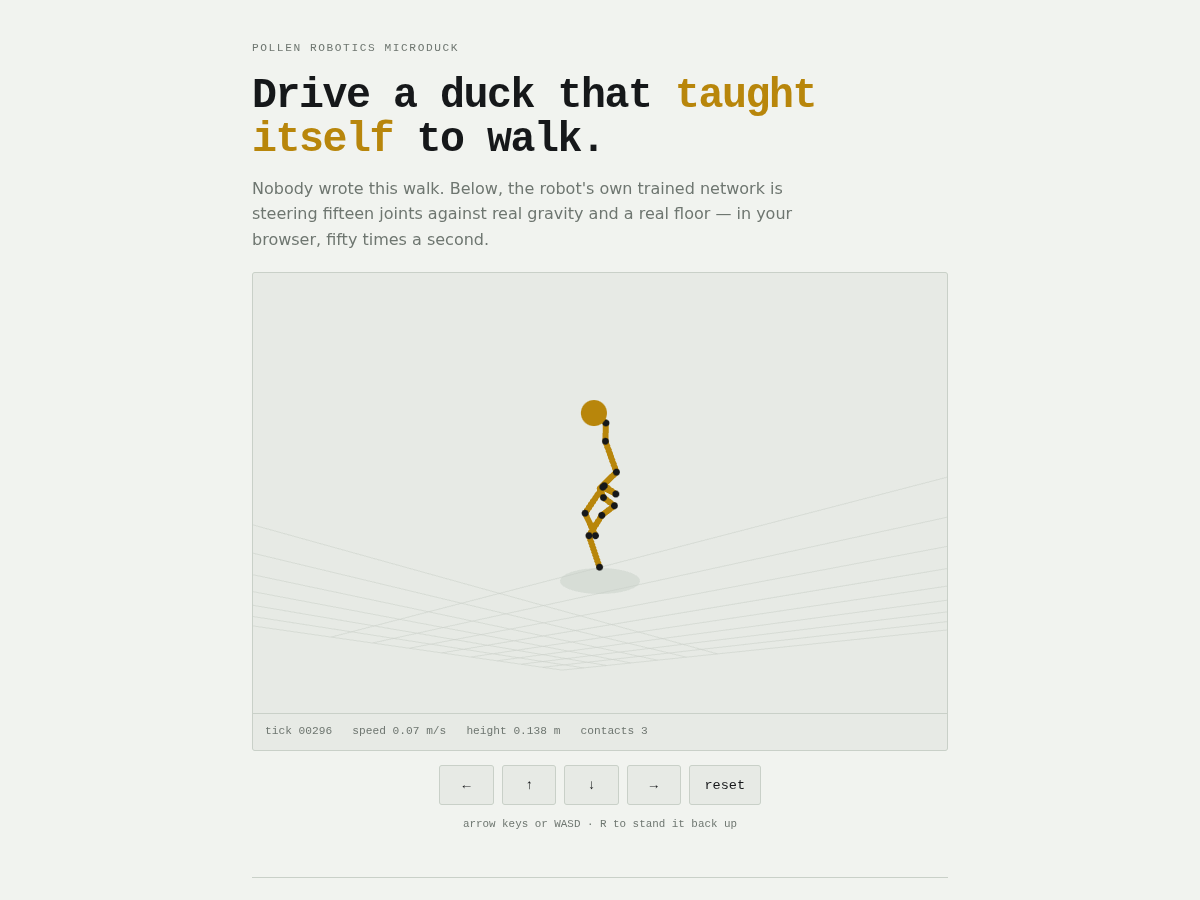
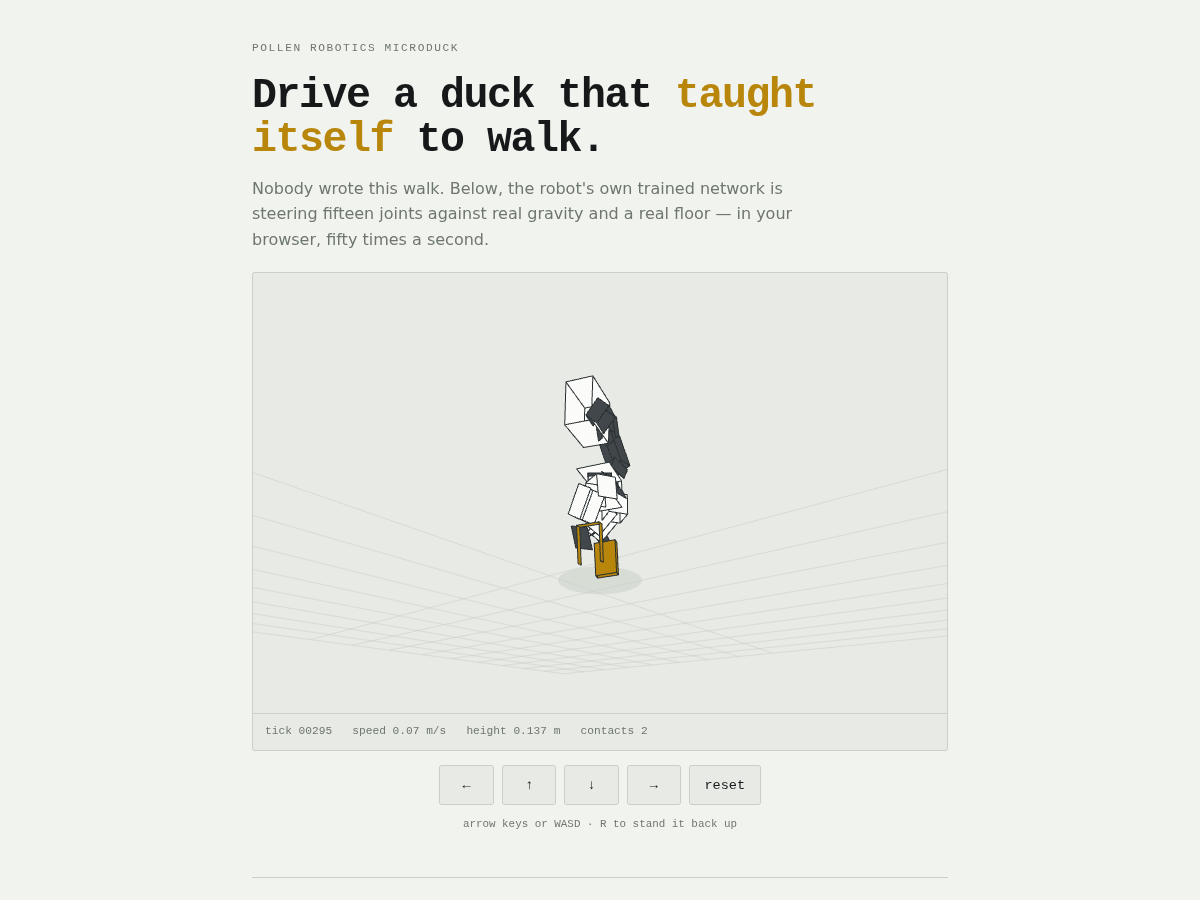
The duck gets a body, and a real gyro
Two bugs, both caught by the headless browser check rather than by looking.
The first: sim.js started reading the gyro from a MuJoCo sensor, but the copy
of scene.xml in site/ predated the sensor being added, so the observation was
garbage and the duck fell through the floor — height -0.090 m in the HUD. The
second was the earlier wasmPaths one. Neither was visible without driving the
page; both would have shipped.

The gyro is the real fix underneath. Reading qvel[3:6] as a proxy for the IMU
was a frame assumption; the model has an `imu` site, so the scene now carries a
proper <gyro> on it, which is what Pollen's simulator reads too. It matters:
with the sensor, commanding a left turn actually turns left, where before it
turned right.

It still will not turn right, and that is now a documented dead end rather than
an open question. A stiffness sweep across kp 6-45 found no setting that both
stays upright and turns symmetrically: kp 14 turns correctly in both directions
and falls over, kp 9 is stable and turns one way. The actuator model cannot
reproduce the policy's command space, because the real servo gains are not
published. Recorded clips avoid the problem by mirroring instead.

And the duck now has a body. Each limb is a solid box spanning from its own
joint to its child's, so the proportions are the model's measured link lengths
— thigh 42 mm, shin 49 mm, neck 50 mm — rather than a stick figure or a guess,
[…]

Changed region(s): [[0.4625, 0.4356, 0.5242, 0.6533]]

diff --git a/site/sim.js b/site/sim.js
@@ -15,12 +15,68 @@ ort.env.wasm.wasmPaths = new URL('./vendor/ort/', document.baseURI).href;
 ort.env.wasm.numThreads = 1;
 
 const DECIMATION = 4;
-// The kinematic chain, from the model. Body 0 is MuJoCo's world.
-const BONES = [
-  [1, 2], [2, 3], [3, 4], [4, 5], [5, 6],       // left leg
-  [1, 7], [7, 8], [8, 9], [9, 10],              // neck + head
-  [1, 11], [11, 12], [12, 13], [13, 14], [14, 15], // right leg
+// The duck is drawn as solid limbs, not a stick figure. Each link is a real box
+// spanning from its own joint to its child's, so the proportions are the
+// model's own measured link lengths (thigh 42 mm, shin 49 mm, neck 50 mm)
+// rather than anything guessed. Pollen's simulator uses their sculpted meshes;
+// those live in a Space with no licence, so this is the honest alternative —
+// the right shape, in the robot's colours: white shells, dark brackets, orange
+// feet.
+//
+// MJCF body ids: 1 trunk, 2-6 left leg, 7-10 neck+head, 11-15 right leg.
+const LIMB = {  // child id -> how the bone INTO it is drawn
+  2:  { r: 0.017, c: 'joint' },  11: { r: 0.017, c: 'joint' },
+  3:  { r: 0.015, c: 'joint' },  12: { r: 0.015, c: 'joint' },
+  4:  { r: 0.015, c: 'shell' },  13: { r: 0.015, c: 'shell' },
+  5:  { r: 0.014, c: 'shell' },  14: { r: 0.014, c: 'shell' },
+  6:  { r: 0.012, c: 'joint' },  15: { r: 0.012, c: 'joint' },
+  7:  { r: 0.013, c: 'joint' },
+  8:  { r: 0.012, c: 'joint' },
+  9:  { r: 0.013, c: 'joint' },
+  10: { r: 0.014, c: 'joint' },
+};
+// Leaf volumes the bones cannot express: the head shell and the two feet.
+const BLOCKS = [
+  { body: 10, w: 0.060, d: 0.068, h: 0.042, up: 0.012, c: 'shell' },
+  { body: 6,  w: 0.034, d: 0.052, h: 0.011, up: -0.014, c: 'foot' },
+  { body: 15, w: 0.034, d: 0.052, h: 0.011, up: -0.014, c: 'foot' },
+  { body: 1,  w: 0.050, d: 0.058, h: 0.040, up: 0.000, c: 'shell' },
 ];
+const FACES = [[0,1,2,3],[4,5,6,7],[0,1,5,4],[2,3,7,6],[1,2,6,5],[0,3,7,4]];
+const CORNERS = [[-1,-1,-1],[1,-1,-1],[1,1,-1],[-1,1,-1],[-1,-1,1],[1,-1,1],[1,1,1],[-1,1,1]];
+
+function rotate(q, v) {
+  const [w, x, y, z] = q;
+  const tx = 2 * (y * v[2] - z * v[1]);
+  const ty = 2 * (z * v[0] - x * v[2]);
+  const tz = 2 * (x * v[1] - y * v[0]);
+  return [v[0] + w * tx + (y * tz - z * ty),
+          v[1] + w * ty + (z * tx - x * tz),
+          v[2] + w * tz + (x * ty - y * tx)];
+}
+
+/** Eight corners of a box spanning a→b with square cross-section 2r. */
+function boxBetween(a, b, r) {
+  const d = [b[0] - a[0], b[1] - a[1], b[2] - a[2]];
+  const len = Math.hypot(d[0], d[1], d[2]) || 1e-6;
+  const u = [d[0] / len, d[1] / len, d[2] / len];
+  // any vector not parallel to u
+  const seed = Math.abs(u[2]) < 0.9 ? [0, 0, 1] : [1, 0, 0];
+  let n1 = [u[1] * seed[2] - u[2] * seed[1], u[2] * seed[0] - u[0] * seed[2], u[0] * seed[1] - u[1] * seed[0]];
+  const n1l = Math.hypot(n1[0], n1[1], n1[2]) || 1e-6;
+  n1 = n1.map(v => v / n1l);
+  const n2 = [u[1] * n1[2] - u[2] * n1[1], u[2] * n1[0] - u[0] * n1[2], u[0] * n1[1] - u[1] * n1[0]];
+  const out = [];
+  for (const c of CORNERS) {
+    const t = c[2] > 0 ? 1 : 0;
+    out.push([
+      a[0] + d[0] * t + n1[0] * c[0] * r + n2[0] * c[1] * r,
+      a[1] + d[1] * t + n1[1] * c[0] * r + n2[1] * c[1] * r,
+      a[2] + d[2] * t + n1[2] * c[0] * r + n2[2] * c[1] * r,
+    ]);
+  }
+  return out;
+}
 
 const cv = document.getElementById('view');
 const ctx = cv.getContext('2d');
@@ -41,7 +97,7 @@ function reset() {
 
 async function tick() {
   const q = [data.qpos[3], data.qpos[4], data.qpos[5], data.qpos[6]];
-  const gyro = [data.qvel[3], data.qvel[4], data.qvel[5]];
+  const gyro = [data.sensordata[0], data.sensordata[1], data.sensordata[2]];
   const jpos = [], jvel = [];
   for (let k = 0; k < 14; k++) { jpos.push(data.qpos[7 + k]); jvel.push(data.qvel[6 + k]); }
   const obs = buildObs(gyro, projectedGravity(q), jpos, jvel, lastAction, command(cmdState));
@@ -54,15 +110,11 @@ async function tick() {
 }
 
 // ── drawing ────────────────────────────────────────────────────────────────
-// A fixed three-quarter camera that follows the duck on the ground plane.
 function project(p, cam) {
   const dx = p[0] - cam.x, dy = p[1] - cam.y, dz = p[2];
   const yaw = 0.9, pitch = 0.30;
   const rx = dx * Math.cos(yaw) - dy * Math.sin(yaw);
   const ry = dx * Math.sin(yaw) + dy * Math.cos(yaw);
-  // Camera sits 0.75 m behind the duck. Anything closer than 0.15 m is behind
-  // the lens; clamping rather than dropping it is what stopped the floor grid
-  // folding back on itself across the horizon.
   const depth = Math.max(ry + 0.75, 0.15);
   const s = cam.scale / depth;
   return [cam.w / 2 + rx * s, cam.h * 0.70 - (dz - pitch * ry) * s, depth];
@@ -77,14 +129,14 @@ function draw() {
 
   const cam = { x: data.qpos[0], y: data.qpos[1], w, h, scale: Math.min(w, h) * 1.15 };
 
-  // floor grid, so travel is visible rather than asserted
+  // floor
   ctx.strokeStyle = css('--rule'); ctx.lineWidth = 1; ctx.globalAlpha = 0.55;
   const step = 0.1, span = 0.8;
   const gx = Math.round(cam.x / step) * step, gy = Math.round(cam.y / step) * step;
   const seg = (a, b) => {
-    const p = project(a, cam), q = project(b, cam);
-    if (p[2] <= 0.16 || q[2] <= 0.16) return;
-    ctx.beginPath(); ctx.moveTo(p[0], p[1]); ctx.lineTo(q[0], q[1]); ctx.stroke();
+    const p = project(a, cam), q2 = project(b, cam);
+    if (p[2] <= 0.16 || q2[2] <= 0.16) return;
+    ctx.beginPath(); ctx.moveTo(p[0], p[1]); ctx.lineTo(q2[0], q2[1]); ctx.stroke();
   };
   for (let i = -span; i <= span + 1e-9; i += step) {
     seg([gx + i, gy - span, 0], [gx + i, gy + span, 0]);
@@ -92,24 +144,56 @@ function draw() {
   }
   ctx.globalAlpha = 1;
 
-  const pts = [];
-  for (let b = 0; b < 16; b++) pts.push(project([data.xpos[b * 3], data.xpos[b * 3 + 1], data.xpos[b * 3 + 2]], cam));
-
   // contact shadow
-  ctx.fillStyle = css('--rule'); ctx.globalAlpha = 0.5;
-  const sh = project([data.qpos[0], data.qpos[1], 0], cam);
-  ctx.beginPath(); ctx.ellipse(sh[0], sh[1], 40, 13, 0, 0, Math.PI * 2); ctx.fill();
+  ctx.fillStyle = css('--rule'); ctx.globalAlpha = 0.55;
+  const sh = project([data.qpos[0], data.qpos[1], 0.001], cam);
+  ctx.beginPath(); ctx.ellipse(sh[0], sh[1], 42, 14, 0, 0, Math.PI * 2); ctx.fill();
   ctx.globalAlpha = 1;
 
-  ctx.strokeStyle = css('--duck'); ctx.lineWidth = 6; ctx.lineCap = 'round';
-  for (const [a, b] of BONES) {
-    ctx.beginPath(); ctx.moveTo(pts[a][0], pts[a][1]); ctx.lineTo(pts[b][0], pts[b][1]); ctx.stroke();
+  // limbs and volumes, painted back to front
+  const palette = { shell: css('--shell'), joint: css('--bracket'), foot: css('--duck') };
+  const world = b => [data.xpos[b * 3], data.xpos[b * 3 + 1], data.xpos[b * 3 + 2]];
+  const PARENT = { 2:1, 3:2, 4:3, 5:4, 6:5, 7:1, 8:7, 9:8, 10:9, 11:1, 12:11, 13:12, 14:13, 15:14 };
+
+  const shapes = [];
+  for (const key of Object.keys(LIMB)) {
+    const child = +key, spec = LIMB[child];
+    shapes.push({ corners: boxBetween(world(PARENT[child]), world(child), spec.r), c: spec.c });
   }
-  ctx.fillStyle = css('--ink');
-  for (const [, b] of BONES) { ctx.beginPath(); ctx.arc(pts[b][0], pts[b][1], 3.4, 0, Math.PI * 2); ctx.fill(); }
-  // the head, so it reads as a duck facing somewhere
-  ctx.fillStyle = css('--duck');
-  ctx.beginPath(); ctx.arc(pts[10][0], pts[10][1], 13, 0, Math.PI * 2); ctx.fill();
+  for (const blk of BLOCKS) {
+    const pos = world(blk.body);
+    const quat = [data.xquat[blk.body * 4], data.xquat[blk.body * 4 + 1],
+                  data.xquat[blk.body * 4 + 2], data.xquat[blk.body * 4 + 3]];
+    const half = [blk.w / 2, blk.d / 2, blk.h / 2];
+    shapes.push({
+      corners: CORNERS.map(c => {
+        const local = [c[0] * half[0], c[1] * half[1], c[2] * half[2] + blk.up];
+        const wpt = rotate(quat, local);
+        return [pos[0] + wpt[0], pos[1] + wpt[1], pos[2] + wpt[2]];
+      }), c: blk.c,
+    });
+  }
+
+  const quads = [];
+  for (const shape of shapes) {
+    const pts = shape.corners.map(p => project(p, cam));
+    for (const f of FACES) {
+      const [ax, ay] = pts[f[0]], [bx, by] = pts[f[1]], [cx2, cy2] = pts[f[2]];
+      if ((bx - ax) * (cy2 - ay) - (by - ay) * (cx2 - ax) <= 0) continue;  // back-face cull
+      const depth = (pts[f[0]][2] + pts[f[1]][2] + pts[f[2]][2] + pts[f[3]][2]) / 4;
+      quads.push({ depth, pts: f.map(k => pts[k]), fill: palette[shape.c] });
+    }
+  }
+  quads.sort((a, b) => b.depth - a.depth);
+  ctx.lineJoin = 'round';
+  ctx.strokeStyle = css('--outline'); ctx.lineWidth = 1;
+  for (const q of quads) {
+    ctx.beginPath();
+    ctx.moveTo(q.pts[0][0], q.pts[0][1]);
+    for (let k = 1; k < 4; k++) ctx.lineTo(q.pts[k][0], q.pts[k][1]);
+    ctx.closePath();
+    ctx.fillStyle = q.fill; ctx.fill(); ctx.stroke();
+  }
 
   const speed = Math.hypot(data.qvel[0], data.qvel[1]);
   hud.textContent =

diff --git a/site/index.html b/site/index.html
@@ -13,12 +13,14 @@
   :root{
     --paper:#F1F3EF; --ink:#16181A; --rule:#C9D0C8; --muted:#6E7670;
     --duck:#B8860B; --net:#3E4C7A; --panel:#E7EAE5;
+    --shell:#FBFBF9; --bracket:#41474A; --outline:#2A2F31;
     --mono:ui-monospace,SFMono-Regular,"SF Mono",Menlo,Consolas,"Liberation Mono",monospace;
     --sans:system-ui,-apple-system,"Segoe UI",Roboto,Helvetica,Arial,sans-serif;
   }
   @media (prefers-color-scheme:dark){
     :root{ --paper:#121412; --ink:#E8EBE6; --rule:#2A2F29; --muted:#8B938A;
-           --duck:#E6A81F; --net:#8FA0D8; --panel:#191C19; }
+           --duck:#E6A81F; --net:#8FA0D8; --panel:#191C19;
+           --shell:#E9EBE6; --bracket:#3A4043; --outline:#0E100F; }
   }
   *{box-sizing:border-box}
   body{margin:0;background:var(--paper);color:var(--ink);font-family:var(--sans);

diff --git a/sim/build_scene.py b/sim/build_scene.py
@@ -31,6 +31,18 @@ for side, site in (("left", "left_foot"), ("right", "right_foot")):
             'rgba="0.75 0.62 0.20 1" />' % (side, pos))
     src = src.replace(m.group(1), geom, 1)
 
+# 3b — a real gyro on the model's own IMU site.
+# Reading qvel[3:6] instead was a frame error: MuJoCo reports free-joint
+# angular velocity in its own convention, while the policy was trained on a
+# gyro mounted at this site. Using the sensor is both faithful and what
+# Pollen's simulator does.
+sensor = """  <sensor>
+    <gyro name="imu_gyro" site="imu" />
+    <framequat name="trunk_quat" objtype="site" objname="imu" />
+  </sensor>
+"""
+src = src.replace("</mujoco>", sensor + "</mujoco>", 1)
+
 # 4 — position actuators, one per policy joint, in DuckKit's order.
 acts = ['  <actuator>']
 for j in policy_joints:
